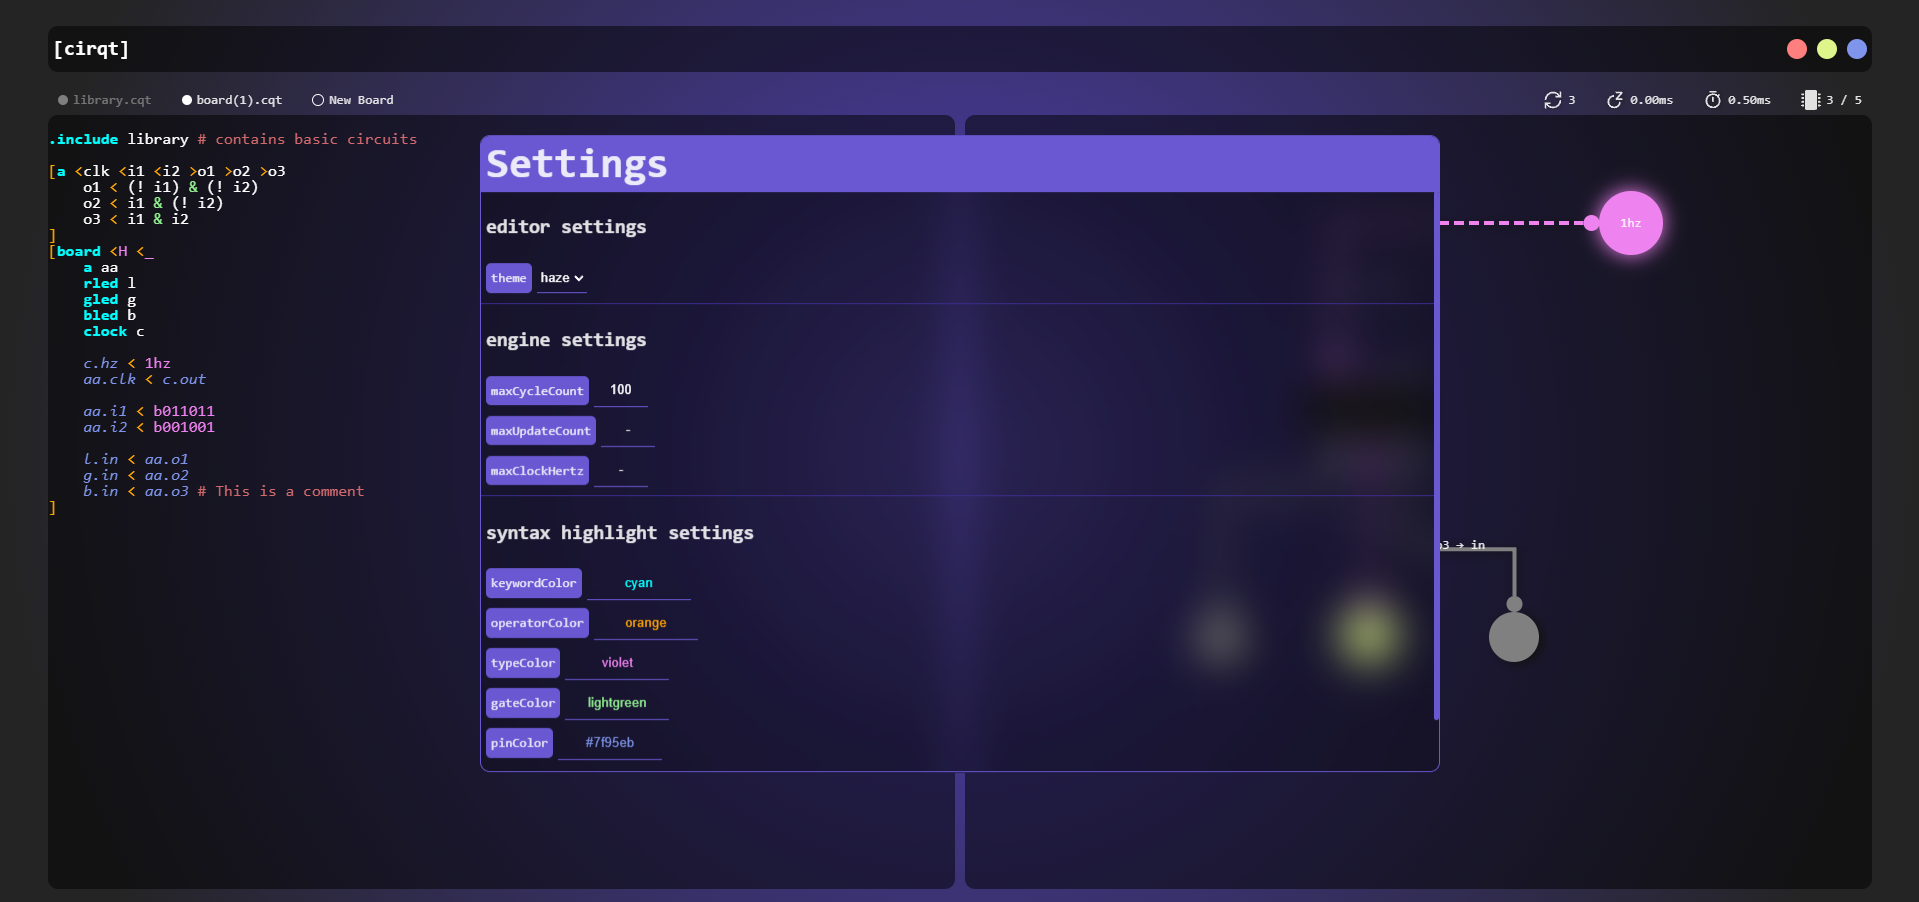
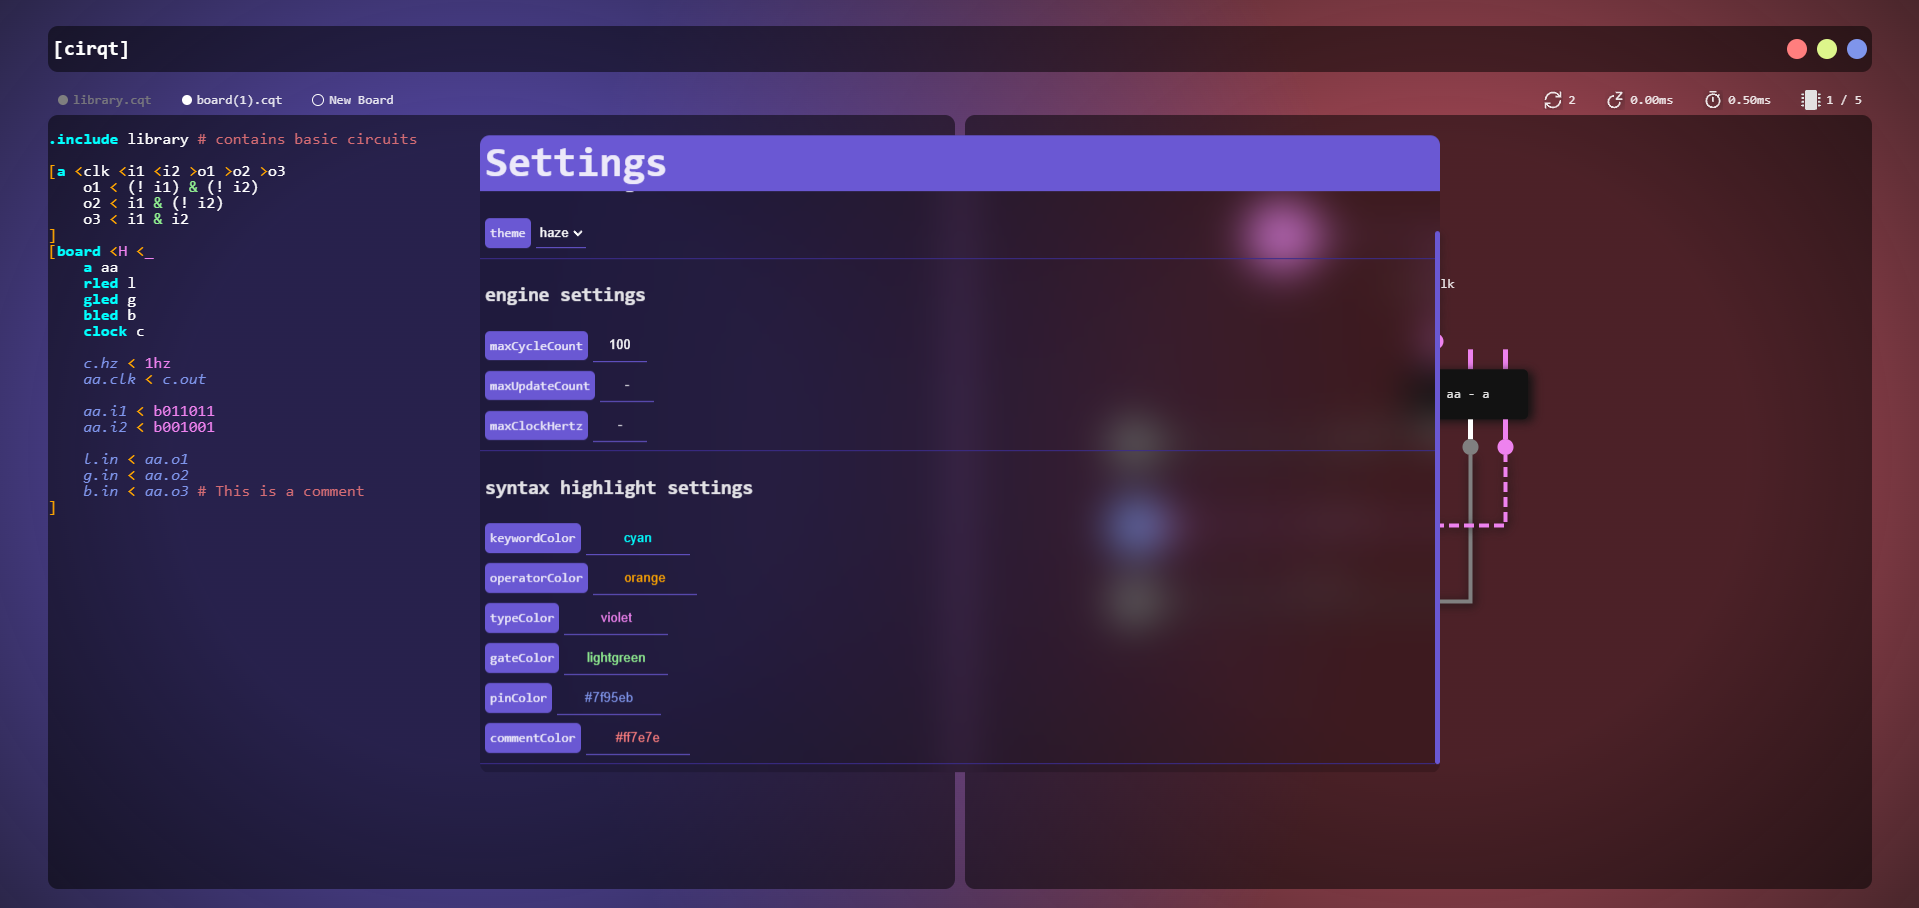
Reactive background, smooth transitions

diff --git a/src/App.css b/src/App.css
@@ -66,7 +66,7 @@
 }
 
 .header:hover{
-  padding: 5px 5px;
+  padding: 5px;
 }
 
 .actions{
@@ -121,7 +121,7 @@
   width: 50vw;
   height: 70vh;
   backdrop-filter: blur(20px) brightness(0.8);
-  border: 1px solid rgba(106,88,211,1);
+
   border-radius: 10px;
   padding: 0px;
   padding-top: 0px;
@@ -183,6 +183,7 @@
   backdrop-filter: brightness(0.5);
 
   transition: 0.3s;
+
 }
 .editor:hover{
   padding: 5px;
@@ -248,14 +249,14 @@ textarea {
 }
 
 .highlighted code {
-  display: block; /* Ensures correct multi-line behavior */
-  line-height: 1rem; /* Must match textarea */
+  display: block;
+  line-height: 1rem; 
 
 }
 
 .highlighted span {
-  display: inline-block; /* Prevents line height inconsistencies */
-  line-height: 1rem; /* Must match textarea */
+  display: inline-block; 
+  line-height: 1rem; 
   pointer-events: all;
   position: relative;
   cursor: pointer;
@@ -267,7 +268,7 @@ textarea {
   top: 0;
   padding: 4px;
   color: white;
-  background-color: rgba(0, 0, 0, 0.7);
+  background-color: rgba(20, 20, 20, 0.7);
   border-radius: 4px;
   z-index: 10;
 }
@@ -286,6 +287,7 @@ textarea {
   font-size: 10px;
   left: 100%; 
   margin-left: 8px;
+  margin-top: 8px;
   top: 20px;
 }
 
@@ -307,6 +309,7 @@ textarea {
   display: flex;
 
   transition: 0.3s;
+
 }
 .breadboard:hover{
   padding: 5px;
@@ -339,7 +342,7 @@ textarea {
   top: 0;
   padding: 4px;
   color: white;
-  background-color: rgba(0, 0, 0, 0.7);
+  background-color: rgba(20, 20, 20, 0.7);
   border-radius: 4px;
   z-index: 10;
 }
@@ -358,6 +361,7 @@ textarea {
   font-size: 10px;
   right: 100%; 
   margin-left: 8px;
+  margin-top: 8px;
   top: 20px;
 }
 

diff --git a/src/index.css b/src/index.css
@@ -1,16 +1,33 @@
+@property --left-side-percent {
+  syntax: '<percentage>'; 
+  initial-value: 60%;
+  inherits: false;
+}
+
+@property --right-side-percent {
+  syntax: '<percentage>'; 
+  initial-value: 60%;
+  inherits: false;
+}
+
 :root {
   font-family: system-ui, Avenir, Helvetica, Arial, sans-serif;
   line-height: 1.5;
   font-weight: 400;
+  
+  --right-side-percent: 60%;
 
   color-scheme: light dark;
   color: rgba(255, 255, 255, 0.87);
-  background: radial-gradient(circle, rgba(106,88,211,1) 0%, rgba(65,54,135,1) 30%, rgba(36,36,36,1) 90%);
+  background: radial-gradient(circle at 25% center, rgba(106, 88, 211, 0.7) 20%, transparent var(--left-side-percent)),
+  radial-gradient(circle at 75% center, rgba(211, 88, 106, 0.7) 20%, transparent var(--right-side-percent));
 
   font-synthesis: none;
   text-rendering: optimizeLegibility;
   -webkit-font-smoothing: antialiased;
   -moz-osx-font-smoothing: grayscale;
+
+  transition: --left-side-percent 1s,  --right-side-percent 1s;
 }
 
 a {
@@ -64,5 +81,14 @@ button:focus-visible {
   }
   button {
     background-color: #f9f9f9;
+  }
+}
+
+@keyframes idk {
+  from{
+    --left-side-percent: 60%
+  }
+  to{
+    --left-side-percent: 100%
   }
 }

diff --git a/src/Clock.jsx b/src/Clock.jsx
@@ -39,12 +39,13 @@ function Clock({circuit, index, updateXarrow,update}){
         onDrag={updateXarrow}
         onStop={updateXarrow}
         nodeRef={nodeRef}
+        grid={[20,20]}
     >
         <span 
         className="built-in-circuit"
         id={`${circuit.name}-out`}
         style={{display: 'flex',justifyContent: 'center', alignItems: 'center',width: 64, height: 64,backgroundColor: circuit.outputs[0].voltage === 'H' ? 'violet': 'grey', 
-        borderRadius: '50%', filter:  circuit.outputs[0].voltage === 'H' ? `drop-shadow(0px 0px 10px violet)` : '', textAlign: 'center'}} 
+        borderRadius: '50%', filter:  circuit.outputs[0].voltage === 'H' ? `drop-shadow(0px 0px 10px violet)` : '', textAlign: 'center',transition: 'background 1s, filter 1s'}} 
         ref={nodeRef}>{circuit.inputs[0].value}</span>
     </Draggable>)
 }

diff --git a/src/Led.jsx b/src/Led.jsx
@@ -11,12 +11,13 @@ function Led({circuit, index, updateXarrow, color}){
         onDrag={updateXarrow}
         onStop={updateXarrow}
         nodeRef={nodeRef}
+        grid={[20,20]}
     >
         <span 
         className="built-in-circuit"
         id={`${circuit.name}-in`}
         style={{display: 'block',width: 50, height: 50,backgroundColor: circuit.outputs[0].voltage === 'H' ? color: 'grey', 
-        borderRadius: '50%', filter:  circuit.outputs[0].voltage === 'H' ? `drop-shadow(0px 0px 10px ${color})` : ''}} ref={nodeRef}></span>
+        borderRadius: '50%', filter:  circuit.outputs[0].voltage === 'H' ? `drop-shadow(0px 0px 10px ${color})` : '',transition: 'background 1s, filter 1s'}} ref={nodeRef}></span>
     </Draggable>)
 }
 

diff --git a/src/Editor.jsx b/src/Editor.jsx
@@ -473,8 +473,12 @@ const Editor = forwardRef(({ callback, files, setCode, setStats,addFile }, ref) 
         evaluate
     }));
 
+
+
     return (
-        <div className="editor">
+        <div className="editor"
+            onPointerEnter={()=>document.documentElement.style.setProperty('--left-side-percent','120%')}
+            onPointerLeave={()=>document.documentElement.style.setProperty('--left-side-percent','60%')}>
             <div className="files">
                 {files.map((file, index) => (
                     <span onClick={()=>setCurrent(index)} style={{filter: index === current ? '' : 'brightness(0.5)'}}>

diff --git a/src/Breadboard.jsx b/src/Breadboard.jsx
@@ -54,7 +54,9 @@ function Breadboard({tree, update, stats}) {
   },[tree])
 
 return (
-  <div className="breadboard">
+  <div className="breadboard"
+      onPointerEnter={()=>document.documentElement.style.setProperty('--right-side-percent','120%')}
+            onPointerLeave={()=>document.documentElement.style.setProperty('--right-side-percent','60%')}>
       <div className="stats">
         <span data-type="Cycles" data-desc="The last evaluation took this many cycles.">
           <GrPowerCycle fontSize={20}/>

diff --git a/src/Circuit.jsx b/src/Circuit.jsx
@@ -10,6 +10,7 @@ function Circuit({circuit, index, updateXarrow}){
               onDrag={updateXarrow}
               onStop={updateXarrow}
               nodeRef={nodeRef}
+              grid={[20,20]}
           >
               <div className="circuit-container" id={`circuit-${index}`} ref={nodeRef}>
                   <span className="pins">

diff --git a/src/Switch.jsx b/src/Switch.jsx
@@ -11,6 +11,7 @@ function Switch({circuit, index, updateXarrow,update}){
         onDrag={updateXarrow}
         onStop={updateXarrow}
         nodeRef={nodeRef}
+        grid={[20,20]}
     >
     <span 
     className="built-in-circuit"

diff --git a/src/App.jsx b/src/App.jsx
@@ -10,7 +10,8 @@ function App() {
 
   const [files, setFiles] = useState([
     {title: 'library', 
-    code: `[rled <in >out
+    code: `
+[rled <in >out
     out < in
 ]
 [gled <in >out
